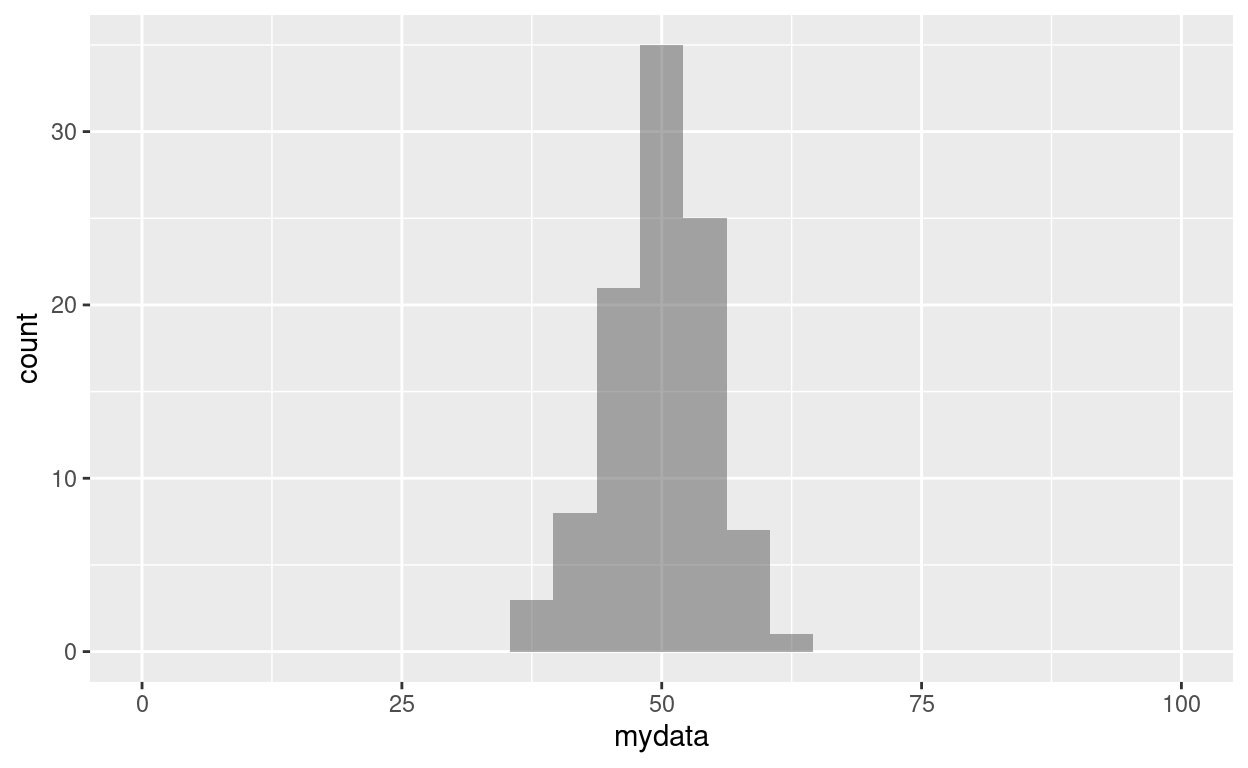
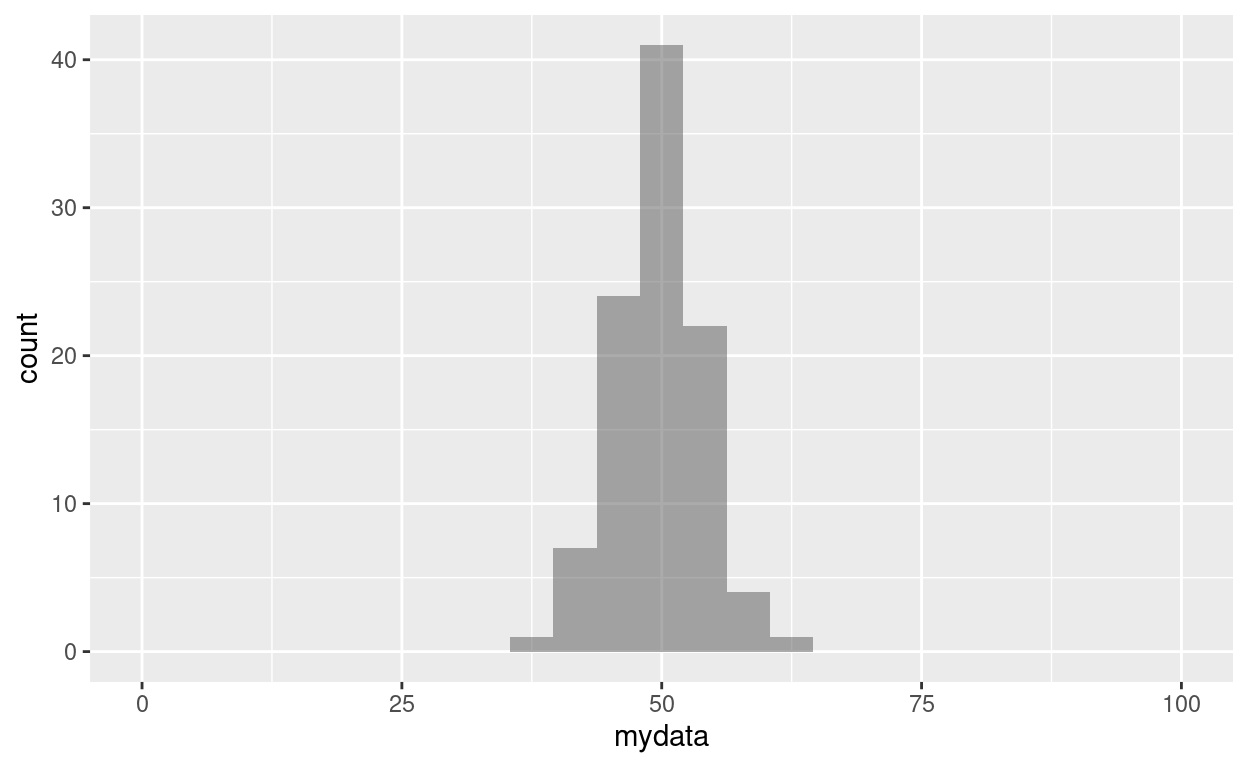
Issue #2 Resolved main points

diff --git a/GLM.html b/GLM.html
@@ -14,7 +14,7 @@
 <meta name="allow-skip" content="false" />
 <meta name="learnr-version-prerender" content="0.11.4" />
 
-<title>Tutorial</title>
+<title>Count, proportion and presence / absence response variables</title>
 
 <!-- header-includes START -->
 <!-- HEAD_CONTENT -->
@@ -109,25 +109,28 @@ if (window.hljs) {
 
 <article class="topics" id="learnr-tutorial-content">
 
-<div id="section-generalised-linear-models" class="section level2">
-<h2>Generalised linear models</h2>
-<div id="section-why-might-we-want-to-generalise-a-linear-model"
-class="section level3">
-<h3>Why might we want to generalise a linear model?</h3>
-<p>Recall your initial lectures, practicals and online websites from
-this module, and remember that scientific data can arise in different
-‘forms’ or ‘types’. For example:</p>
+<div id="section-introduction" class="section level2">
+<h2>Introduction</h2>
+<div id="section-linear-models" class="section level3">
+<h3>Linear models</h3>
+<p>In the last two weeks, we have been looking at linear models using
+<code>lm()</code>. The response data you’ve looked at has been
+continuous numerical data, potentially with decimal points.</p>
+</div>
+<div id="section-data-types" class="section level3">
+<h3>Data types</h3>
+<p>Your response variable may not always be a continuous numerical one.
+In biology you may be dealing with the numbers of birds in a wood (whole
+numbers), percentage of crop damage by a pathogen (bounded 0 to 100) or
+dead/alive (categorical data). Thinking about your data type allows you
+to improve your standard linear model with a “generalised” linear model
+that can cope with these types of responses:</p>
 <ul>
-<li><strong>continuous (ratio) data</strong>
+<li><strong>Continuous data</strong>
 <ul>
 <li>These could be positive or negative, and include decimal points,
 2.45, 5.01, -3.78, 2.00. Examples might include temperate (degrees
 Centigrade).</li>
-</ul></li>
-<li><strong>continuous (ratio) data, bounded by zero</strong>
-<ul>
-<li>Again your data have decimal points, but no zeros; 4.58, 2.912,
-5.002 etc. Examples might include length (cm).</li>
 </ul></li>
 <li><strong>Whole number data, bounded by zero</strong>
 <ul>
@@ -146,43 +149,64 @@ killed by a new pesticide</li>
 <li>Two categories present, often coded as 0 or 1. Again wide occurrence
 in biology: dead/alive, present/absent, resistant/susceptible etc.</li>
 </ul></li>
-<li><strong>Ordinal categorical data</strong>
-<ul>
-<li>Multiple categories present, ‘first’, ‘second’, ‘third’ etc. These
-can arise in questionnaire surveys where respondants have to select a
-preference from 1 to 5, or river hydrology of stream networks.</li>
-</ul></li>
 </ul>
 </div>
-<div id="section-baseline-assumptions-of-linear-model"
+</div>
+<div id="section-assumptions-of-linear-model" class="section level2">
+<h2>Assumptions of linear model</h2>
+<p>Linear models assume that our response is a continuous numerical
+variable, and the model produces normally-distributed residuals with
+homogeneity of variance. Continuous numerical data can take any value,
+could be either positive and negative and run from -infinity to
++infinity. Thus our model is of the form:</p>
+<p><span class="math inline">\(\text{Response variable} =
+\text{Explanatory variable(s)} + Error\)</span></p>
+<p>and when your response is a continuous numerical variable then it is
+assumed that a histogram of your errors would produce a normal
+(Gaussian) or bell-shaped curve.</p>
+<div id="section-three-key-types-of-error-distribution"
 class="section level3">
-<h3>Baseline assumptions of linear model</h3>
-<p>A key assumption of your linear model, using the <code>lm()</code>
-function, is that the <strong>response variable</strong> is continuous,
-i.e. could potentially have decimals. Strictly- speaking, negative
-values should theoretically be possible, although in practice for most
-datasets <code>lm()</code> is fairly robust to this assumption, and if
-your lower bound is zero it generally does not cause too many problems.
-If you have continuous data as your response, and you suspect your model
-is poorly fitted, you can often easily correct this by taking a
-logarithm of your response variable. (Take the logarithm as
-<code>log(response + 1)</code> if you have zero values.)</p>
-<p>The statistical distribution underlying the standard
-<code>lm()</code> linear model is the normal or “Gaussian” distribution,
-named after Friederick Gauss (German mathematician). The graph below
-shows a frequency histogram of 100 random numbers, with a mean of 50,
-and standard deviation of 5, generated using the <code>rnorm()</code>
-function which uses a Gaussian or normal distribution.</p>
+<h3>Three key types of error distribution</h3>
+<p>However, we’ve just discussed continuous, whole number, proportion
+and binary data. The last three break the assumptions of a linear model,
+and need to be analysed using different error distributions. The four
+types of data (if we include continuous) can be represented by three
+statistical distributions:</p>
+<ul>
+<li>Gaussian (normal) distribution: classic bell-shaped curve, used for
+<strong>continuous</strong> response</li>
+<li>Poisson distribution: <strong>whole number count</strong>
+response</li>
+<li>Binomial distribution: <strong>proportion</strong> or a
+<strong>binary categorical</strong> response</li>
+</ul>
+</div>
+<div id="section-generalised-linear-models" class="section level3">
+<h3>Generalised linear models</h3>
+<p>These are an extension of the standard linear model that you have
+already used. They are called with the <code>glm()</code> function, and
+can handle Gaussian, Poisson and Binomial error distributions. Before we
+look in detail at how <code>glm()</code> work, we will refresh our
+memory on the Gaussian (normal) distribution, and introduce the Poisson
+and Binomial distributions using interactive controls.</p>
+</div>
+</div>
+<div id="section-normal-distribution" class="section level2">
+<h2>Normal distribution</h2>
+<p>This statistical distribution is named after a 19th Century German
+mathematician, Friederick Gauss. The graph below shows a frequency
+histogram of 100 random numbers, with a mean of 50, and standard
+deviation of 5, generated using the <code>rnorm()</code> function which
+uses a Gaussian or normal distribution.</p>
 <pre class="r"><code>mydata &lt;- rnorm(n = 100, mean = 50, sd = 5)
 gf_histogram(~mydata) %&gt;% 
   gf_lims(x = c(0, 100))</code></pre>
-<pre><code>## Warning: Removed 2 rows containing missing values (`geom_bar()`).</code></pre>
 <p><img src="GLM_files/figure-html/gaussian_distribution-1.png" width="624" /></p>
-<p>Look at the scale of the x-axis and it is obvious that we have ratio
-data with decimal points, and we can confirm this by looking at the
-first few numbers in <code>mydata</code>:</p>
+<p>Look at the scale of the x-axis and it is obvious that we have
+continuous data with decimal points, and we can confirm this by looking
+at the first few numbers in <code>mydata</code>:</p>
 <pre class="r"><code>head(mydata)</code></pre>
-<pre><code>## [1] 41.94210 53.50530 49.69321 45.58333 47.12818 53.81590</code></pre>
+<pre><code>## [1] 52.18159 54.58352 47.86784 56.08510 49.99085 52.31534</code></pre>
 <p>As you can see from the above, there are two ‘parameters’ to a normal
 distribution, the mean and the standard deviation. Conveniently, 95% of
 the data will fall within + or - 1.96 (i.e. approximately 2) standard
@@ -215,23 +239,14 @@ together; a high sd flattens and spreads the curve</li>
 distribution for these data.</li>
 </ul>
 </div>
-</div>
-<div id="section-poisson-and-binomial-distributions"
-class="section level2">
-<h2>Poisson and Binomial distributions</h2>
-<p>The two distributions you are most likely to need as biologists are
-the Poisson distribution for counts named after Simeon Poisson (French
-mathematician), and the Binomial distribution for 1/0 or
-presence/absence data (no-one seems to have claimed credit for this
-one!).</p>
-<p>Let’s have a quick look at these two distributions.</p>
-<div id="section-poisson-distribution" class="section level3">
-<h3>Poisson distribution</h3>
-<p>Remember, this returns whole numbers (no decimals) greater than or
-equal to zero. It takes a parameter <span
-class="math inline">\(\lambda\)</span> (Greek letter lambda) which
-adjusts the shape of this distribution. Try the interactive below to see
-what happens:</p>
+<div id="section-poisson-distribution" class="section level2">
+<h2>Poisson distribution</h2>
+<p>The Poisson distribution for counts is named after Simeon Poisson
+(French mathematician). Remember, this returns whole numbers (no
+decimals) that are greater than or equal to zero. It takes a single
+parameter <span class="math inline">\(\lambda\)</span> (Greek letter
+lambda) which adjusts the shape of this distribution. Try the
+interactive below to see what happens:</p>
 <h2>The Poisson distribution for whole-number counts</h2>
 <div class="row">
 <div class="col-sm-4">
@@ -259,8 +274,8 @@ any values below zero.</li>
 whole number counts.</li>
 </ul>
 </div>
-<div id="section-binomial-distribution" class="section level3">
-<h3>Binomial distribution</h3>
+<div id="section-binomial-distribution" class="section level2">
+<h2>Binomial distribution</h2>
 <p>This is useful when you have:</p>
 <ul>
 <li>dead / alive</li>
@@ -310,7 +325,6 @@ representing the numbers of successes (e.g. germinating seeds)</li>
 <li>the total of all the vertical axes is always 25, which is the total
 number of replicates in this example.</li>
 </ul>
-</div>
 </div>
 <div id="section-how-to-generalise" class="section level2">
 <h2>How to generalise</h2>
@@ -451,8 +465,8 @@ summary table, and look at the plots of residuals and QQ plot.
 for the <code>lm()</code> make sure you have your response and
 explanatory variables the right way round. Use
 <code>mplot(spp_count_lm, which=1:2)</code> to check diagnostic the
-residuals and QQ plots, or alternatively manually extract the residuals
-and use <code>gf_qq()</code>.</p>
+residuals and QQ plots with <code>ggplot2</code> graphs or
+<code>plot(spp_count_lm, which=1:2</code> for basic graphs.</p>
 <div class="tutorial-exercise" data-label="sppcount_lm"
 data-completion="1" data-diagnostics="1" data-startover="1"
 data-lines="0">
@@ -1034,25 +1048,25 @@ learnr:::store_exercise_cache(structure(list(label = "sppcount_glm", global_setu
 
 <script type="application/shiny-prerendered" data-context="server">
 learnr:::question_prerendered_chunk(structure(list(type = "learnr_radio", label = "lm_v_glm", question = structure("What happens if I run glm() without specifying the family?", html = TRUE, class = c("html", 
-"character")), answers = list(structure(list(id = "lnr_ans_3d72620", 
+"character")), answers = list(structure(list(id = "lnr_ans_d29b7bc", 
     option = "It uses a normal distribution estimated by least squares", 
     value = "It uses a normal distribution estimated by least squares", 
     label = structure("It uses a normal distribution estimated by least squares", html = TRUE, class = c("html", 
     "character")), correct = FALSE, message = structure("No. It uses a normal (Gaussian) distribution, but\nestimates by maximum likelihood. The coefficients for the\nintercept and gradient will be the same, but AIC and deviance\nwill show.", html = TRUE, class = c("html", 
     "character")), type = "literal"), class = c("tutorial_question_answer", 
-"tutorial_quiz_answer")), structure(list(id = "lnr_ans_735e20", 
+"tutorial_quiz_answer")), structure(list(id = "lnr_ans_c3fc7f", 
     option = "It uses a binomial distribution estimated by maximum likelihood", 
     value = "It uses a binomial distribution estimated by maximum likelihood", 
     label = structure("It uses a binomial distribution estimated by maximum likelihood", html = TRUE, class = c("html", 
     "character")), correct = FALSE, message = structure("No. It defaults to a normal (Gaussian) distribution, but\nestimates by maximum likelihood.", html = TRUE, class = c("html", 
     "character")), type = "literal"), class = c("tutorial_question_answer", 
-"tutorial_quiz_answer")), structure(list(id = "lnr_ans_b24a1d0", 
+"tutorial_quiz_answer")), structure(list(id = "lnr_ans_9b3cacb", 
     option = "It uses a Poisson distribution estimated by maximum likelihood", 
     value = "It uses a Poisson distribution estimated by maximum likelihood", 
     label = structure("It uses a Poisson distribution estimated by maximum likelihood", html = TRUE, class = c("html", 
     "character")), correct = FALSE, message = structure("No. It defaults to a normal (Gaussian) distribution, but\nestimates by maximum likelihood.", html = TRUE, class = c("html", 
     "character")), type = "literal"), class = c("tutorial_question_answer", 
-"tutorial_quiz_answer")), structure(list(id = "lnr_ans_34bcaf9", 
+"tutorial_quiz_answer")), structure(list(id = "lnr_ans_edc672c", 
     option = "It uses a Gaussian distribution estimated by maximum likelihood", 
     value = "It uses a Gaussian distribution estimated by maximum likelihood", 
     label = structure("It uses a Gaussian distribution estimated by maximum likelihood", html = TRUE, class = c("html", 
@@ -1065,32 +1079,32 @@ learnr:::question_prerendered_chunk(structure(list(type = "learnr_radio", label 
 "character")), incorrect = structure("Incorrect", html = TRUE, class = c("html", 
 "character")), message = NULL, post_message = NULL), ids = list(
     answer = "lm_v_glm-answer", question = "lm_v_glm"), loading = NULL, 
-    random_answer_order = TRUE, allow_retry = TRUE, seed = 518977796.258332, 
+    random_answer_order = TRUE, allow_retry = TRUE, seed = 1751164366.68455, 
     options = list()), class = c("learnr_radio", "tutorial_question"
 )), session = session)
 </script>
  
 <script type="application/shiny-prerendered" data-context="server">
 learnr:::question_prerendered_chunk(structure(list(type = "learnr_radio", label = "recode", question = structure("Looking at the summary output above, what might be useful to do before\nvisualising and analysing the data?", html = TRUE, class = c("html", 
-"character")), answers = list(structure(list(id = "lnr_ans_6b6c42e", 
+"character")), answers = list(structure(list(id = "lnr_ans_5e24c86", 
     option = "Since pH uses a log scale, it is essential to log-transform\n                the calcium content", 
     value = "Since pH uses a log scale, it is essential to log-transform\n                the calcium content", 
     label = structure("Since pH uses a log scale, it is essential to log-transform\nthe calcium content", html = TRUE, class = c("html", 
     "character")), correct = FALSE, message = structure("No. Whilst pH does use log, it is\nbased on hydrogen-ion concentration not calcium", html = TRUE, class = c("html", 
     "character")), type = "literal"), class = c("tutorial_question_answer", 
-"tutorial_quiz_answer")), structure(list(id = "lnr_ans_7e3d768", 
+"tutorial_quiz_answer")), structure(list(id = "lnr_ans_1cd0dd7", 
     option = "Standardise the air pollution to zero mean and unit standard\n                deviation", 
     value = "Standardise the air pollution to zero mean and unit standard\n                deviation", 
     label = structure("Standardise the air pollution to zero mean and unit standard\ndeviation", html = TRUE, class = c("html", 
     "character")), correct = FALSE, message = structure("No, this is not essential, although be\naware that this is sometimes useful if the explanatory variables\nare on very different scales", html = TRUE, class = c("html", 
     "character")), type = "literal"), class = c("tutorial_question_answer", 
-"tutorial_quiz_answer")), structure(list(id = "lnr_ans_8ae7c0c", 
+"tutorial_quiz_answer")), structure(list(id = "lnr_ans_41424", 
     option = "Standardise the calcium to zero mean and unit standard\n                deviation", 
     value = "Standardise the calcium to zero mean and unit standard\n                deviation", 
     label = structure("Standardise the calcium to zero mean and unit standard\ndeviation", html = TRUE, class = c("html", 
     "character")), correct = FALSE, message = structure("No, this is not essential, although be\naware that this is sometimes useful if the explanatory variables\nare on very different scales", html = TRUE, class = c("html", 
     "character")), type = "literal"), class = c("tutorial_question_answer", 
-"tutorial_quiz_answer")), structure(list(id = "lnr_ans_c4d7613", 
+"tutorial_quiz_answer")), structure(list(id = "lnr_ans_7683993", 
     option = "Convert the presence and absence of lichen to a factor", 
     value = "Convert the presence and absence of lichen to a factor", 
     label = structure("Convert the presence and absence of lichen to a factor", html = TRUE, class = c("html", 
@@ -1103,7 +1117,7 @@ learnr:::question_prerendered_chunk(structure(list(type = "learnr_radio", label 
 "character")), incorrect = structure("Incorrect", html = TRUE, class = c("html", 
 "character")), message = NULL, post_message = NULL), ids = list(
     answer = "recode-answer", question = "recode"), loading = NULL, 
-    random_answer_order = FALSE, allow_retry = TRUE, seed = 1806359572.15885, 
+    random_answer_order = FALSE, allow_retry = TRUE, seed = 1168309993.45596, 
     options = list()), class = c("learnr_radio", "tutorial_question"
 )), session = session)
 </script>
@@ -1199,19 +1213,19 @@ learnr:::store_exercise_cache(structure(list(label = "boxplot_airpoll", global_s
 <script type="application/shiny-prerendered" data-context="server">
 learnr:::question_prerendered_chunk(structure(list(type = "learnr_radio", label = "which_lichen_model", 
     question = structure("Which term(s) should be removed for the simpler model?", html = TRUE, class = c("html", 
-    "character")), answers = list(structure(list(id = "lnr_ans_3cb80b4", 
+    "character")), answers = list(structure(list(id = "lnr_ans_6f4542f", 
         option = "All terms are non-significant terms, therefore we cannot make\n                a simpler model", 
         value = "All terms are non-significant terms, therefore we cannot make\n                a simpler model", 
         label = structure("All terms are non-significant terms, therefore we cannot make\na simpler model", html = TRUE, class = c("html", 
         "character")), correct = FALSE, message = structure("No. Always look at the interaction\nterm first", html = TRUE, class = c("html", 
         "character")), type = "literal"), class = c("tutorial_question_answer", 
-    "tutorial_quiz_answer")), structure(list(id = "lnr_ans_614288e", 
+    "tutorial_quiz_answer")), structure(list(id = "lnr_ans_df1409a", 
         option = "Only keep airpoll as it appears to be most important", 
         value = "Only keep airpoll as it appears to be most important", 
         label = structure("Only keep airpoll as it appears to be most important", html = TRUE, class = c("html", 
         "character")), correct = FALSE, message = structure("No.\nSince the interaction term is non-significant it should be\nremoved first", html = TRUE, class = c("html", 
         "character")), type = "literal"), class = c("tutorial_question_answer", 
-    "tutorial_quiz_answer")), structure(list(id = "lnr_ans_dcb5b03", 
+    "tutorial_quiz_answer")), structure(list(id = "lnr_ans_9f697e8", 
         option = "The interaction term should be removed first and the new model\n                tested", 
         value = "The interaction term should be removed first and the new model\n                tested", 
         label = structure("The interaction term should be removed first and the new model\ntested", html = TRUE, class = c("html", 
@@ -1225,7 +1239,7 @@ learnr:::question_prerendered_chunk(structure(list(type = "learnr_radio", label 
     "character")), message = NULL, post_message = NULL), ids = list(
         answer = "which_lichen_model-answer", question = "which_lichen_model"), 
     loading = NULL, random_answer_order = TRUE, allow_retry = TRUE, 
-    seed = 1313530425.38834, options = list()), class = c("learnr_radio", 
+    seed = 499273630.767508, options = list()), class = c("learnr_radio", 
 "tutorial_question")), session = session)
 </script>
  
@@ -1375,7 +1389,8 @@ learnr:::store_exercise_cache(structure(list(label = "lichen_fit_and_plot", glob
 
 <!-- begin doc-metadata -->
 <div id="doc-metadata">
-<h1 class="title toc-ignore" style="display:none;">Tutorial</h1>
+<h1 class="title toc-ignore" style="display:none;">Count, proportion and
+presence / absence response variables</h1>
 </div>
 <!-- end doc-metadata -->
 
